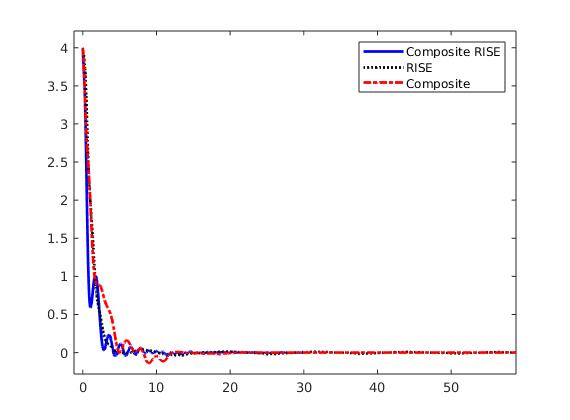
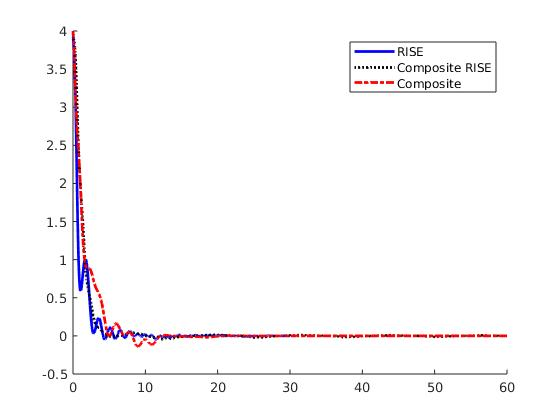
Refine examples

diff --git a/Nonlinear-Project/Nonlinear-Control-Project2/src/Rise.m b/Nonlinear-Project/Nonlinear-Control-Project2/src/Rise.m
@@ -1,6 +1,4 @@
 function Rise
-hold on
-
 %Set up dynamics for sim
 p1       = 3.473;
 p2       = 0.196;
@@ -60,7 +58,6 @@ Rise_intergrate_1  = STATES(:,24:25)';
 % Compute x from e and xd for plotting purposes
 q  = -e1 + qd;
 
-
 % Plot the actual vs desired trajectories
 figure(1)
 plot(t,qd,'-','LineWidth',2)
@@ -71,8 +68,7 @@ plot(t,q,':','LineWidth',2)
 hold off
 
 figure(2)
-hold on
-plot(t,e1,'-','LineWidth',2)
+plot(t,e1,'k:','LineWidth',2)
 
 
 figure(3)
@@ -117,7 +113,7 @@ plot(length_,tau,'-','LineWidth',2)
 
 figure(5)
 plot(t,thetaHat-repmat(theta,1,length(t)),'-','LineWidth',2)
-
+%}
 
 
 function [XDot] = composite_rise1(t,X,theta)

diff --git a/Nonlinear-Project/Nonlinear-Control-Project2/src/traditional_Rise.m b/Nonlinear-Project/Nonlinear-Control-Project2/src/traditional_Rise.m
@@ -1,7 +1,6 @@
 function traditional_Rise
 close all
-
-%Set up dynamics for sim
+% Set up dynamics for sim
 p1       = 3.473;
 p2       = 0.196;
 p3       = 0.242;
@@ -50,6 +49,7 @@ intergrate = STATES(:,7:8)';
 % Compute x from e and xd for plotting purposes
 q  = e1 + qd;
 
+
 % Plot the actual vs desired trajectories
 figure(1)
 plot(t,qd,'-','LineWidth',2)
@@ -59,9 +59,8 @@ ax.ColorOrderIndex = 1;
 plot(t,q,':','LineWidth',2)
 hold off
 
-
 figure(2)
-plot(t,e1,'-','LineWidth',2)
+plot(t,e1,'b','LineWidth',2)
 
 
 figure(3)

diff --git a/Nonlinear-Project/Nonlinear-Control-Project2/src/torquefiltermethod.m b/Nonlinear-Project/Nonlinear-Control-Project2/src/torquefiltermethod.m
@@ -1,7 +1,6 @@
 function torquefiltermethod
 close all
 % Set up parameters for sim
-hold on
 
 p1       = 3.473;
 p2       = 0.196;
@@ -57,9 +56,11 @@ ax.ColorOrderIndex = 1;
 plot(t,q,':','LineWidth',2)
 hold off
 
+
 % Plot the filtered tracking error
 figure(2)
-plot(t,e,'-','LineWidth',2)
+plot(t,e,'r-.','LineWidth',2)
+
 
 
 % Plot the adaptive estimates vs actual parameters
@@ -104,7 +105,6 @@ tausize = size(tau)
 length_ = 1:tausize(2);
 figure(5)
 plot(length_,tau,'-','LineWidth',2)
-
 
 
 
